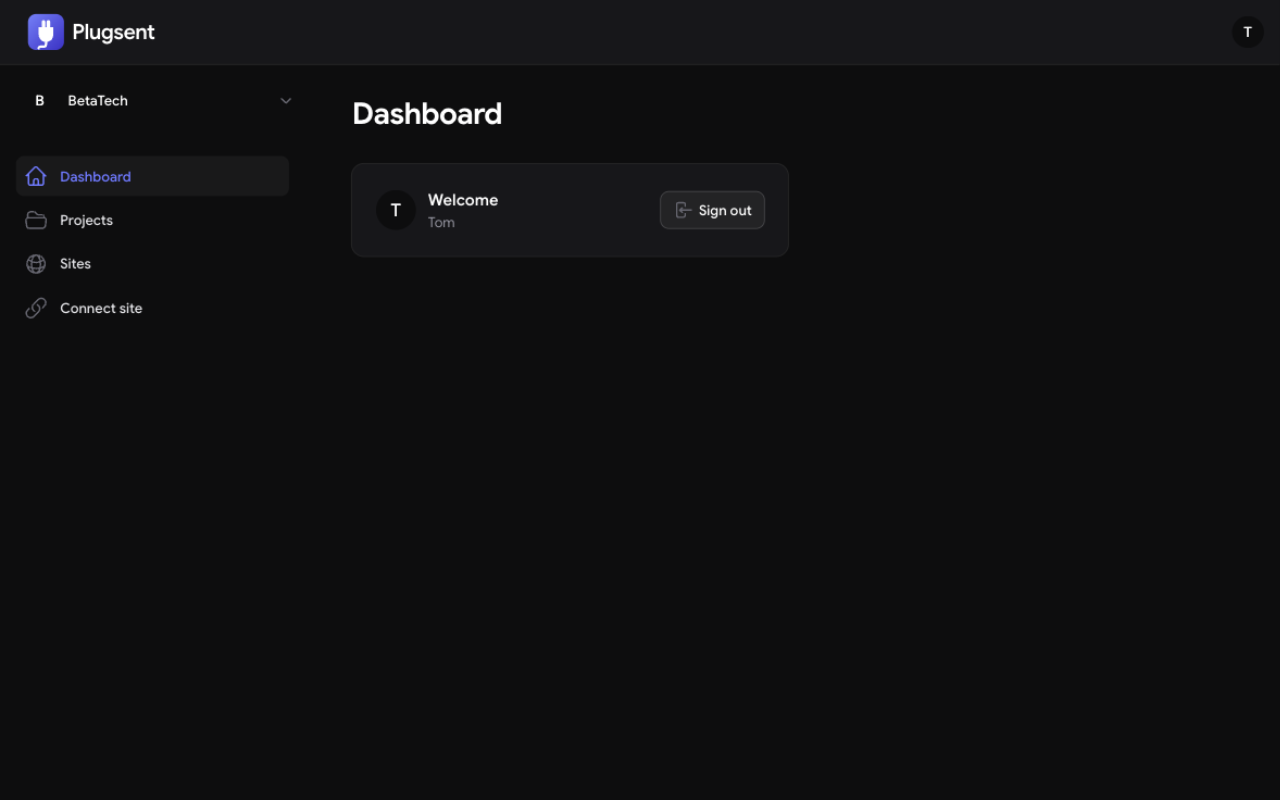
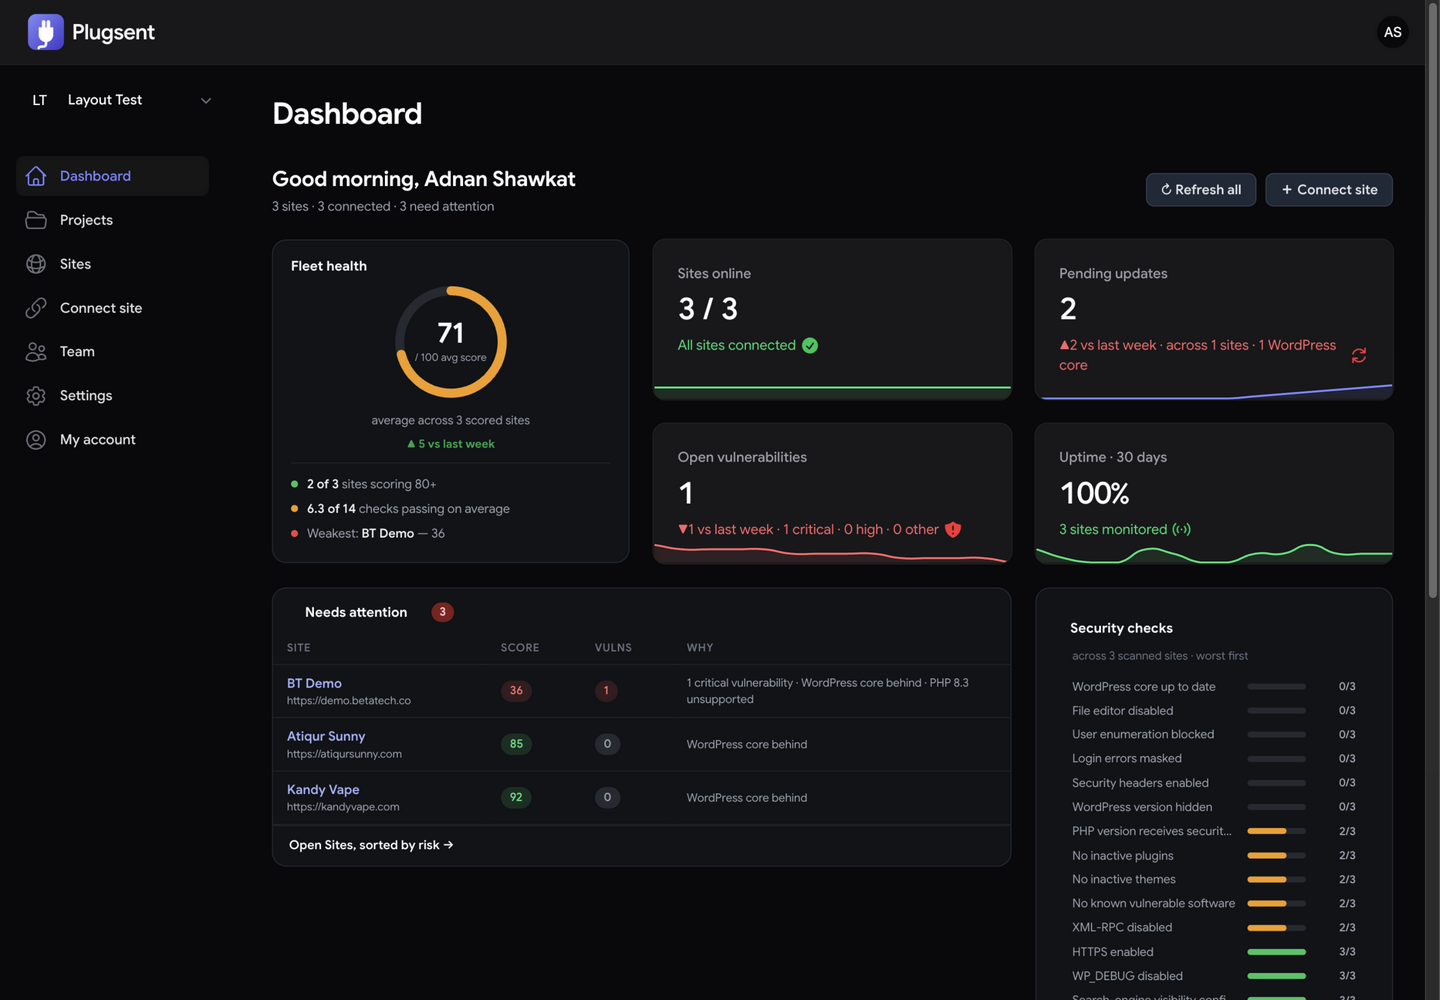
README: refresh screenshots with the fleet dashboard, sites list, and site overview designs

diff --git a/README.md b/README.md
@@ -25,9 +25,24 @@ channel — no firewall rules, no inbound ports, and never your WordPress admin 
 | | |
 |---|---|
 | ![Plugsent login](docs/screenshots/login.png) | ![Plugsent dashboard](docs/screenshots/dashboard.png) |
+| ![Plugsent sites](docs/screenshots/sites.png) | ![Plugsent site overview](docs/screenshots/site-overview.png) |
+| ![Plugsent activity and uptime](docs/screenshots/dashboard-activity.png) | |
 
 ## What's new
 
+- **Sep 2026 — the fleet dashboard** — the home page became a real command center:
+  - **Fleet health at a glance** — a security-score ring for the whole workspace, KPI cards
+    (sites online, pending updates, open vulnerabilities by severity, uptime) with 14-day trend
+    sparklines and week-over-week deltas from a nightly snapshot job, a **Needs attention** table
+    that ranks the worst sites with the reason each one is on the list, the 14 security checks
+    aggregated across the fleet as worst-first pass-rate bars, a fleet-wide activity feed, and
+    per-site 30-day uptime strips.
+  - **Sites list upgraded** — grouped by project, risk-ordered (disconnected first, lowest score
+    next), severity dots per vulnerability class, and inline 30-day uptime mini-strips.
+  - **Site overview rebuilt** — the Overview tab now leads with the score ring, failing checks
+    with reasons, hardening **quick wins** with point math, pending updates with `from → to`
+    versions and one-click Update all, and the uptime card with rate, strip, and SSL/domain
+    expiry.
 - **Jul 2026 → Sep 2026** — the platform grew from "inventory viewer" to a real manager:
   - **Safe updates** — every plugin/theme update runs the full pipeline: files + database restore
     point → update → site smoke test → **automatic rollback** if the site stops answering. Plus a
